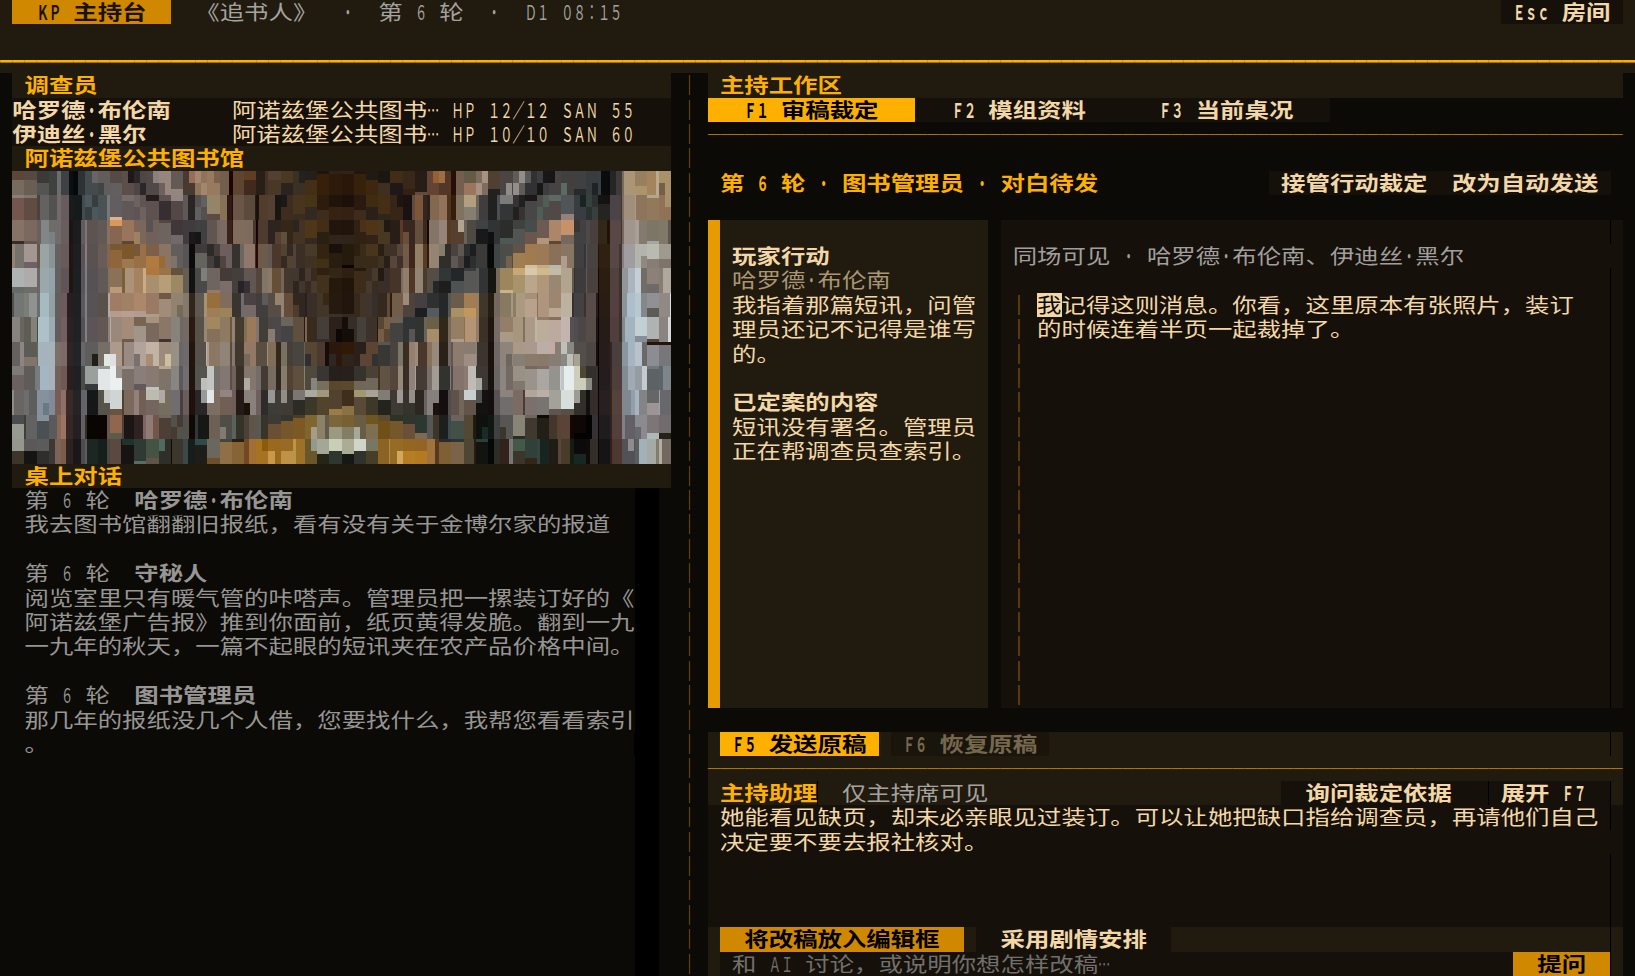
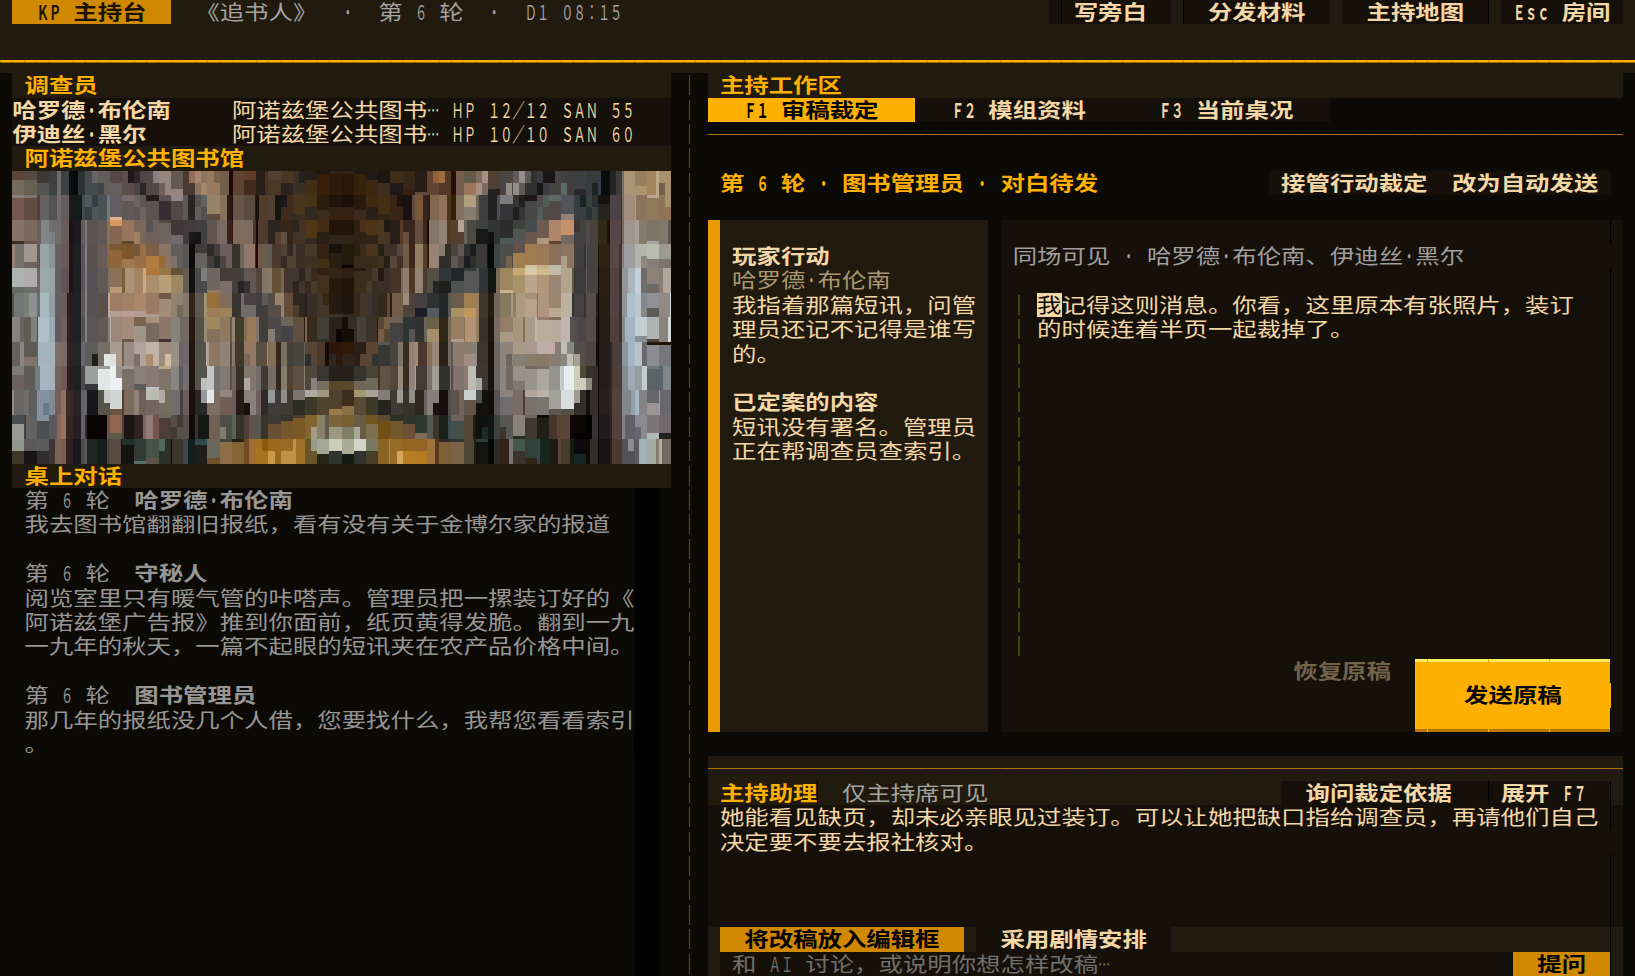
发布 0.0.10.4：地区地图、主持席和联机修复

diff --git a/docs/index.html b/docs/index.html
@@ -30,7 +30,7 @@
                 <a class="button" href="#gallery">实机画面</a>
                 <a class="button" href="https://github.com/satoshinji2992/autokeeper">GitHub</a>
             </nav>
-            <p class="meta">Windows / Linux · 终端与浏览器 · 0.0.10.3</p>
+            <p class="meta">Windows / Linux · 终端与浏览器 · 0.0.10.4</p>
         </div>
     </header>
 

diff --git a/docs/module-format.md b/docs/module-format.md
@@ -41,6 +41,9 @@ modules/<id>/
 | `plugins` | 已开发并通过测试的插件 id 列表；从 `plugins/<id>/` 加载代码，不能在 YAML 中填运行时 `extensions` |
 | `start` / `start_time` | 起始地点 id 和时间（如 `D1 14:00`） |
 | `locations` | 地点：`read_aloud`（读给玩家）、`keeper`（幕后资料）、`features`、`art`；`public: true` 表示可问路找到的公共地标；`within` 填外层地点 id，表示确实在它里面（书房在宅子里、陵墓在公墓里），地图上画在外层地点里，可留空，包含不代表连通；`scene_root: true` 是独立主持区域的边界（同一建筑的房间共用一位守秘人）；`entry` 只给没人站得进去的容器（楼层、整栋楼）填，指向进门落脚的房间；`looks` 是剧情变样后的场景图；`views` 是同一个地点的另外几张图（见下文）；`weather` 是画面上的天气与光（最多两种，不写就没有）；`outdoors`（是否露天、雨雪落不落得到）和 `ground`（地图上周围的地面：`graveyard`、`water`、`woods`、`fields`、`street`、`building`）由编译期的「场景呈现」一步按原文判断填上，游戏里不再按名字猜；`chase` 是从这里起跑的追逐沿着跑的路（见[战斗与追逐](#战斗与追逐)） |
+| `locations[].map_area` | 跨城市或独立区域调查时，填玩家可以看到的地区名。同地区的地点共用一张地区图；房间沿 `within` 继承最近的地区名。为各地区的最外层地点填写即可。单地区模组可留空。地区之间的移动仍由原有通路决定。 |
+| `area_maps` / `area_coordinates` | `area_maps` 按地区名保存独立的室外地图，格式与 `geography` 相同。`area_coordinates` 为现实地名指定 WGS84 坐标，顺序为经度、纬度。 |
+| `map_sources` | 地图编译使用的原图。每项填写 `image` 图片键，可附 `caption` 原图标题。室外分图填 `area`，室内图填 `building` 地点 id，两者都留空表示全局室外图。 |
 | `passages` | 地点之间唯一的连通资料：`a` / `b` 两端（实际地点，不填容器）、`kind`（`road` 道路、`door` 门、`stairs` 楼梯、`corridor` 走廊、`opening` 门洞）、`minutes` 普通经过的分钟数（室内几步写 0）、`one_way`、`gate`（有门才写初始的 `open` / `locked` / `blocked`，开团后的状态只记在本局记录里）、`perception`（隔门能否听见看见的依据）；`secret: true` 是须发现才知道的暗门密道，`found` 写发现条件 `clue:线索id` 或 `flag:标记id`，没写就由守秘人登记或从另一端到过才算发现；`opens` / `closes` 写这条路什么时候通、什么时候不通，见[有条件的通路](#有条件的通路opens--closes)。见下文[建筑内部与平面图](#建筑内部与平面图) |
 | `geography` | 全镇地图：地图地点的位置和图样、路、地形、无名房屋、标题和比例尺（见[全镇地图](#全镇地图geography)）。由编译期的“全镇地图”步骤生成，不必手写 |
 | `plans` | 建筑平面图：`building`、`floors`（每层 `name`、`level`、`rooms` 的 `place`，大小 `size`，建筑本身那一间可写 `label`）、`basis` 依据，`layout` 是房间、门窗、楼梯、陈设的位置和四面朝向（见[平面布局](#平面布局layout)）。楼层和房间由编译期的“建筑内部”步骤整理，`layout` 由“平面布局”步骤定，都不必手写 |
@@ -136,6 +139,22 @@ plans:
 
 `places.yaml` 的 `geography` 定义全镇地图的地理数据，包括地点坐标与图形、道路走向、地形、无名房屋分布、标题和比例尺。地图地点包括最外层地点，以及通过 `road` 通路连接的建筑与场所，不受地点嵌套层级影响。村庄或城区等区域标在其中心或广场；建筑内部的房间，以及仅通过门或楼梯连接外部的房间、仓库，不单独作为全镇地图地点，而由建筑平面图呈现。由编译期的「全镇地图」一步决定，不必手写：模组带着原书地图（标题或种类写着“地图”的手稿，本机有原图时）就由读图角色照图定位；没有就按原文写到的方位和通路的分钟数定。
 
+例如，一份跨地区模组可以这样指定原图。图片键对应模组 `art/` 下的文件名（去掉扩展名），楼层名称可以保留原图的叫法。
+
+```yaml
+map_sources:
+  - {area: 港区, image: harbour_survey, caption: 港务局测绘图}
+  - {building: ferry, image: deck_b, caption: 乙板}
+area_coordinates:
+  波士顿: [-71.0589, 42.3601]
+```
+
+地图编译读取每张图所属的地区或建筑。室外使用归一化坐标描绘地点、道路与地块，室内使用既有楼层、房间和通路 id 放置门窗、楼梯与陈设。识图失败会在编译结果中报告，已有布局继续可用。各地区可单独更新。玩家在 F3 看到按本人探索进度绘制的地图。希望把原图交给玩家时，将相同图片键加入相应手稿的 `images`。
+
+室外图的 `geography.palette`（或对应的 `area_maps` 条目）和室内图的 `layout.palette` 接受同一套纸墨颜色。例如 `{paper: "#18314a", ink: "#def1f3"}` 可绘制深蓝底的工程图。纸墨留空时沿用游戏用纸。
+
+沙地、冰面、甲板、熔岩或人工围场等形状均可用 `regions[].kind: surface` 表示。`shape` 描绘边界，`color` 使用六位十六进制颜色，`pattern` 可选平涂 `plain`、排线 `hatch`、点纹 `stipple` 或街廓 `blocks`。后者只在指定多边形内生成概略建筑。无法确定建筑外形时，地点的 `glyph` 使用中性符号 `marker`。这些符号和纹理没有通行效果，移动仍按 `passages` 裁定。
+
 ```yaml
 geography:
   title: 埃斯内尔                       # 镇或地方的名字
@@ -157,13 +176,13 @@ geography:
 ```
 
 - 坐标 `[x, y]`：x 由西（0）向东（1），y 由北（0）向南（1），上北下南。图宽是高的 1.5 倍，两点距离按 √((Δx×1.5)²+Δy²) 算。
-- `glyph`：`church` 教堂、`clinic` 诊所医院、`house` 普通住家、`farm` 谷仓农场、`ruin` 废屋、`shop` 邮局商铺饭馆、`public` 学校警局银行车站等公共建筑、`hill` 山丘、`woods` 树林、`graveyard` 墓地、`street` 街道广场、`other` 别的。
+- `glyph`：`church` 教堂、`clinic` 诊所医院、`house` 普通住家、`farm` 谷仓农场、`ruin` 废屋、`shop` 邮局商铺饭馆、`public` 学校警局银行车站等公共建筑、`hill` 山丘、`woods` 树林、`graveyard` 墓地、`street` 街道广场、`other` 其他建筑、`marker` 中性定位点。
 - `ways`：`kind` 是 `main` 主路、`lane` 小路、`path` 步道；`passage` 写这条路走的通路（两端在不同地图地点的通路，房间的门和楼梯不算），`street` 写这条路本身是哪个街道地点，穿镇而过的公路两样都不写，可以伸出图边。
-- `regions`：`woods`、`fields`、`hills`、`water` 的大致范围（三到八个顶点的多边形），`near` 是它挨着、随着一起显现的地点。
+- `regions`：`woods`、`fields`、`hills`、`water` 及自定义地表 `surface` 的范围（三到八个顶点的多边形），`near` 是它挨着、随着一起显现的地点。
 - `houses`：没有名字的房子沿哪条路（`along`）的哪一段（`span`，按路长的比例）分布，`dense` 是镇中心成排的房子和店铺，`sparse` 是零星的农舍。
 - `landmarks`：原书地图上标着、模组地点里没有的建筑。
 
-编译时程序核对：每个地图地点都有坐标且在图内，两个地点相距不少于 0.08，每条地图通路都有一条从两端地点 0.1 以内经过的路（街道地点按它自己那条路的线算），引用的通路、地点和路都存在。不成立的逐条写明退回重问一次，仍不成立就不写入。`autokeeper check` 将不一致项列为提醒（比如后来加了地图地点）。
+编译时程序核对：每个地图地点都有坐标且在图内，推算的地点相距不少于 0.08，原图上紧邻的地点保留原有间距，每条地图通路都有一条从两端地点 0.1 以内经过的路（街道地点按它自己那条路的线算），引用的通路、地点和路都存在。不成立的逐条写明退回重问一次，仍不成立就不写入。`autokeeper check` 将不一致项列为提醒（比如后来加了地图地点）。
 
 游戏中导演新增的地点不在这份数据里：它们画在相连地点旁边，原有地点不移动；位于其他地点内部的地点（有平面图的建筑里的房间除外）画在所在地点周围。没有这份数据、或它和模组对不上时，地图由程序按通路的分钟数排出来：远近照分钟数（取平方根，远处的农场不至于把镇子挤成一点），挤在一起的推开，每条通路一条直路；相同模组数据生成的布局保持一致。`autokeeper upgrade <模组> --only geography` 只重定这一项。
 

diff --git a/docs/playing.md b/docs/playing.md
@@ -126,6 +126,8 @@ autokeeper --preset deepseek --budget 5
 | Tab | 补全输入框里的技能名；战斗与追逐中切换被攻击时的应对 |
 | Esc | 菜单：继续、存档、读档、玩法说明（含按键说明）、回到标题、退出游戏、设置。换模型、叙事偏好和开发者模式在「设置」里 |
 
+跨地区模组中，F3 打开调查员所在地区的地图或当前建筑的平面图。按 M 查看地区总览，用方向键选中地区，按 Enter 打开当地地图。只有已定位的地区会出现在总览上；翻看地图不会移动调查员。现实地区有坐标时，总览以离线地形图标出两地位置，连线表示已知行程。架空地区使用模组自己的方位关系。
+
 0.0.9.8 起可在 **设置 → 开发者密钥** 中输入密钥，标题页和游戏内设置均可进入：粘贴已有私钥，校验通过后保存，刷新后台网页即可查看完整记录。输入默认遮蔽，已保存的密钥不回显；联机时只有本机运行引擎的房主可用。0.0.9.7 及更早版本需手动将原有的 `developer.key` 放入用户配置目录：Windows 为 `%APPDATA%\autokeeper\developer.key`，Linux 为 `~/.config/autokeeper/developer.key`（设置了 `XDG_CONFIG_HOME` 时以该目录为准）。它不是模型 API 密钥；新生成的另一把私钥不能解密已有记录。
 
 | 输入 | 作用 |
@@ -147,6 +149,8 @@ autokeeper --preset deepseek --budget 5
 ### 孤注一掷与灵感检定
 
 是否检定、使用的技能和难度，由守秘人依据模组与规则决定。需要通过检定才能取得的线索，应先满足对应条件；模组另有规定时按其规则处理。用 `.ra` 请求检定时仍需守秘人裁定，结果按实际骰点结算；无需检定时，界面会说明原因。检定失败后可以孤注一掷、花幸运或放弃。选择孤注一掷时要写明调查员如何行动（多花时间、加倍努力或冒更大的险）。守秘人据此复核：做法无法达成目标时不再掷骰，按放弃处理；可行时计入额外耗时，再次检定。普通失败通常表示未达成目标，更严重的后果留给孤注一掷再失败，选择前会显示。
+
+心理学默认暗骰。例如，判断证人是否在隐瞒什么时，由守秘人掷骰，向你描述调查员观察到的反应。人类 KP 可以在裁定时为这一次检定选择明骰或暗骰。
 
 调查陷入僵局时可以做灵感检定（Ctrl+L 或 `/灵感`）。引擎选出调查员遗漏的最关键线索，由智力最高的调查员掷智力；线索此前没出现过是常规难度，提到过是困难，反复提起或玩家讨论过是极难。成功时守秘人把调查员想到的内容写进叙述；失败时同样会想到，但时间流逝，调查员被直接带进他们能意识到的最糟局面。每个游戏日限一次；长时间没有进展时，守秘人会主动提议，这一次不受限制。没有遗漏的线索时会直接说明。
 
@@ -274,13 +278,15 @@ autokeeper cards import 卡组.zip   # 也可以写出 zip、PDF 所在目录或
 
 **担任 KP。** 在多人大厅按 **K** 选择担任 KP。房主可以直接入席，也可留在调查员席，批准另一位玩家的申请。KP 独占一个主持席，调查员照常准备和提交行动。开局后，观战者也可从 Esc 菜单申请空出的 KP 席。
 
-主持台左侧显示调查员状况、现场和已发出的对话。右侧 **F1 审稿裁定** 显示 AI 准备发出的原文、收件人和已定案的内容。可直接编辑，**F5** 发送，**F6** 恢复原稿。需亲自决定是否掷骰、指定 NPC 台词或分配线索时，选择「接管行动裁定」。窄屏用 **F4** 切换左右栏。
+主持台左侧显示调查员状况、现场和已发出的对话。右侧 **F1 审稿裁定** 显示 AI 准备发出的原文、收件人和已定案的内容。可直接编辑，点稿件右下角的发送按钮，或点旁边的「恢复原稿」撤销修改。需亲自决定是否掷骰、指定 NPC 台词或分配线索时，选择「接管行动裁定」。窄屏用 **F4** 切换左右栏。
 
 ![主持人在右侧核对并编辑图书管理员即将说的台词，左侧保留玩家已经看到的对话](img/keeper-review.png)
 
-**F7 主持助理**用于私下讨论。点「询问裁定依据」可以查看 AI 参考了哪些事实，哪些地方仍需你决定。展开后可用「上一条」「下一条」翻看最近 30 次问答。可以回到先前的答复，采用其中的剧情提案。改稿只适用于当时那份待发稿。点「将改稿放入编辑框」后还能继续修改，按 F5 才会上桌。点「采用剧情安排」，或写下自己的安排并选「设为剧情安排」，后续行动会据此裁定。采用的安排保存在本局存档里，可随时撤下。
+主持台顶栏的「写旁白」和「分发材料」随时可用。可选择全桌公开（含观战席），或勾选收件调查员。也可在模组资料中打开手稿，点「分发此材料」。「主持地图」显示模组地点、建筑平面图和桌上已记录的人物位置，仅主持席可见。
 
-**F2 模组资料**和 **F3 当前桌况**都支持 **Ctrl+F** 查找。地点、人物和手稿条目可查看模组附图，多图条目用「下一张」翻页。翻看资料后回到 F1，尚未提交的内容会保留。KP 离席或断线后，自动 KP 接手尚未裁定的行动，排队的正文按原稿发给原定收件人。要保留手上的改稿，请在离席前按 F5 发送。
+**F7 主持助理**用于私下讨论。点「询问裁定依据」可以查看 AI 参考了哪些事实，哪些地方仍需你决定。展开后可用「上一条」「下一条」翻看最近 30 次问答。可以回到先前的答复，采用其中的剧情提案。改稿只适用于当时那份待发稿。点「将改稿放入编辑框」后还能继续修改，点「发送修改稿」后玩家才会看到。点「采用剧情安排」，或写下自己的安排并选「设为剧情安排」，后续行动会据此裁定。采用的安排保存在本局存档里，可随时撤下。
+
+**F2 模组资料**和 **F3 当前桌况**都支持 **Ctrl+F** 查找。地点、人物和手稿条目可查看模组附图，多图条目用「下一张」翻页。翻看资料后回到 F1，尚未提交的内容会保留。KP 离席或断线后，自动 KP 接手尚未裁定的行动，排队的正文按原稿发给原定收件人。要保留手上的改稿，请在离席前点「发送修改稿」。
 
 房主的名字后有「房主」标记，可以 F9 换模型，当前一段讲完后生效。从标题页开房间的房主在自己的游戏画面里也有开发者模式（F12），可查看本局的隐藏状态，并在「规则插件」（Ctrl+K）里暂停规则、添加自定义规则；自定义规则在当前一段讲完后由房主电脑生成并安装。浏览器加入的人是普通玩家，没有开发者模式；「设置」里只能调整自己画面的字号、配乐、画面风格、骰子皮肤、配色、动画、操作提示和大场景，不会改动房主的设置；字号和配乐随浏览器保存，其余只在这次连接中生效。游戏进度每回合自动保存，游戏运行和模型调用由房主设备处理；各席位只接收有权查看的内容，未向该席位公开的线索、NPC 秘密和模组真相不会随普通游戏数据发送。玩家的原笔记默认保存在本人设备，按对局和座位分别存储，重新入座后恢复；主动分享时，所选副本会发送给房主和指定队友，并随房主存档保存。通过浏览器加入时，原笔记保存在当前浏览器，刷新或重新打开后可恢复。
 

diff --git a/docs/credits.md b/docs/credits.md
@@ -4,4 +4,6 @@
 
 AutoKeeper 程序不开源。本仓库公开玩法文档、项目网页、模组格式与样例、自带模组，授权见 [LICENSE](../LICENSE)；[`examples/module/`](../examples/module/) 是 CC0 格式样例。自带模组《追书人》（改编自 Chaosium 出版、Bret Kramer 著 *Paper Chase*）、《冬雪之下》与《有些人油盐不进》均为同人改编，原作版权归各自原作者与出版方所有，仓库不含原模组文本与原版插图；模组选用的历史照片均来自 Wikimedia Commons，署名与授权见各模组的 `art/credits.yaml`（[追书人](../modules/zhuishuren/art/credits.yaml)、[冬雪之下](../modules/dongxuezhixia/art/credits.yaml)、[有些人油盐不进](../modules/fallout3-youxierenyouyanbujin/art/credits.yaml)）。「画面跟着故事变」截图中的农舍墙面照片为 A S M Jobaer 的 *Weathered brick wall with peeling plaster 02*（[CC BY-SA 4.0](https://creativecommons.org/licenses/by-sa/4.0/)），其差分图依原照片改画，同样按 CC BY-SA 4.0 提供；主街的差分图依 Steve Shook 的照片（CC BY 2.0）改画。标题画面背景取自 Dominique Signoret 的画作 *Cthulhu and R'lyeh*（[CC BY-SA 3.0](https://creativecommons.org/licenses/by-sa/3.0/)，[Wikimedia Commons](https://commons.wikimedia.org/wiki/File:Cthulhu_and_R%27lyeh.jpg)）。标题画面经过裁剪、调色与字符化处理。Call of Cthulhu 是 Chaosium Inc. 的注册商标，本项目与 Chaosium 无关。
 
+城际地图的地形晕渲采用 Natural Earth II，河流和海岸线采用 Natural Earth 1:10m 矢量数据，均按公有领域条款提供。[Natural Earth 数据与许可](https://www.naturalearthdata.com/about/terms-of-use/)
+
 网页标题字体为 TakWolf 的 Fusion Pixel，按 SIL Open Font License 1.1 提供，见[字体许可](site/fonts/OFL.txt)。

diff --git a/CHANGELOG.md b/CHANGELOG.md
@@ -1,5 +1,13 @@
 # 版本更新
 
+## 0.0.10.4（2026-11-20）
+
+- F3 地图可在地区总览、城镇和建筑间切换。分头调查时，各席按自己的见闻看图。
+- 主持席可以主动发布旁白、对白和材料。心理学默认暗骰，真人 KP 可为单次检定选择公开骰面。
+- 修复换座时私人地图、图片或行动建议可能发给下一位调查员，以及补交行动后旧旁白可能进入主持记忆的问题。
+- 追逐中改变的门和路障可以在后续场景修复或清除，再次经过时按最新状态处理。
+- 新游戏选模组和多人开房时显示彩色气泡加载动画。
+
 ## 0.0.10.3（2026-11-19）
 
 - 断线重连后，玩家看到的行动栏会跟随房主的回合状态更新，可以继续提交本轮行动。
